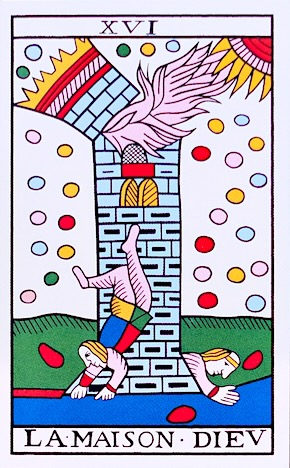
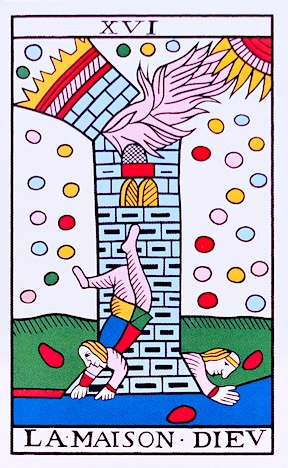
updated index and tweaked two card images for borders

diff --git a/webapp/templates/index.html b/webapp/templates/index.html
@@ -18,12 +18,12 @@
 
 	<hr />
 
-    <p>This is a simple web application written in Python to draw one or more randomly selected cards from a dictionary of 72 Tarot card description and image references.</p>
+    <p>My name is <a href="https://linktr.ee/jeremytarling">Jeremy Tarling</a> and I work as a data specialist at the BBC. I've been fascinated by the tarot since childhood when my aunty first introduced me to the cards.</p>
 
-    <p>The tarot images are my own captures of <a href="https://tarot-history.com/jean-noblet/" target="new">Jean-Claude Flornoy's restoration</a> of Jean Noblet's deck.</p>
+    <p>This little website is a simple application written in Python to draw one or more randomly selected tarot cards from a dictionary of 72 descriptions and image references.</p>
+
+    <p>The tarot images are my own captures of <a href="https://tarot-history.com/jean-noblet/" target="new">Jean-Claude Flornoy's</a> wonderful restoration of Jean Noblet's deck, in the Marseille tradition.</p>
 
     <p><a href="https://github.com/jeremytarling/python-tarot">The source code to this app is here</a> - please feel free to fork or re-use, there are no license restrictions.</p>
-
-    <p><a href="https://linktr.ee/jeremytarling">@jeremytarling</a></p>
 
 {% endblock %}
